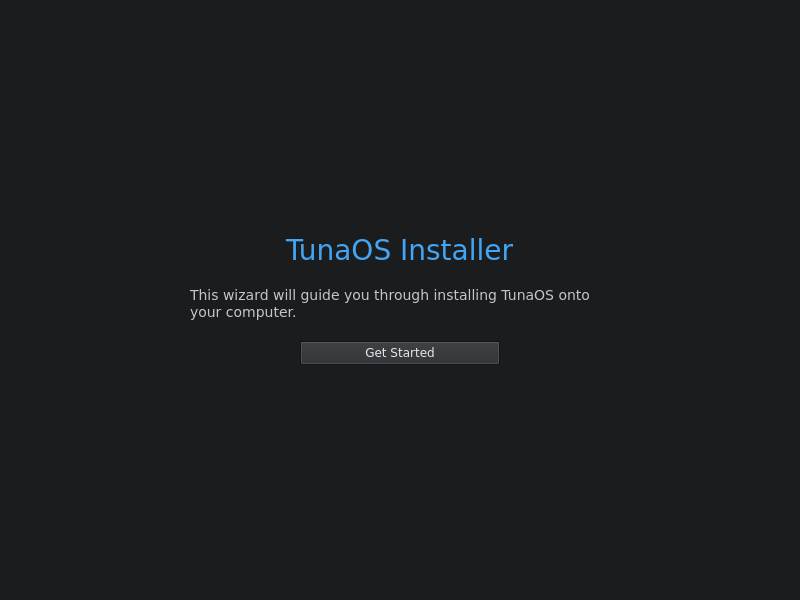
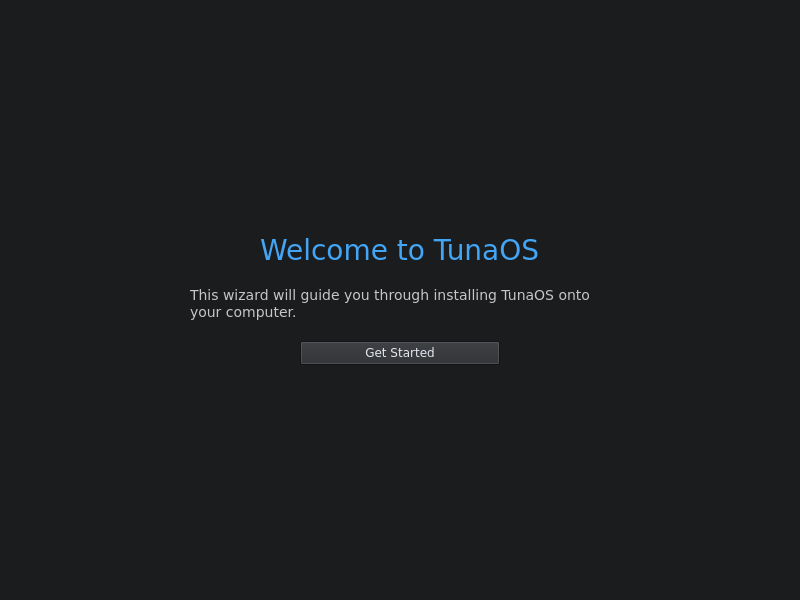
feat(ui): brand the installer with the per-variant product name
tunaOS's branding pipeline computes a per-variant PRETTY_NAME and writes
it into /etc/os-release, which is why the GNOME installer reads "Welcome
to Skipjack". This frontend hardcoded "TunaOS", so a Skipjack ISO showed
the wrong name.

The backend's `detect` now reports PRETTY_NAME, preferring
/run/host/etc/os-release (this ships as a flatpak, so /etc/os-release
inside the sandbox is the runtime's, not the host image's). Quotes are
stripped; empty/unreadable falls back to "TunaOS" in the QML.

The vendored screen-parity spec is updated to match tuna-os/tunaOS#1060,
which removes every keyword containing a product name.

Claude-Session: https://claude.ai/code/session_01KNgsizQRcVzS3KiJ5BduiC

Changed region(s): [[0.3125, 0.39, 0.6875, 0.45]]

diff --git a/ui/installer.qml b/ui/installer.qml
@@ -16,7 +16,7 @@ import "."
 
 ApplicationWindow {
     id: root
-    title: "TunaOS Installer"
+    title: root.productName + " Installer"
     width: 800
     height: 600
     visible: true
@@ -41,6 +41,15 @@ ApplicationWindow {
     palette.dark: Theme.surfaceContainerLowest
 
     property string backendBin: Quickshell.env("TUNA_BACKEND") || "tuna-installer-backend"
+
+    // Per-variant product name. tunaOS's branding pipeline
+    // (build_scripts/90-image-info.sh) computes a PRETTY_NAME per variant and
+    // writes it into /etc/os-release, which is why GNOME's welcome screen reads
+    // "Welcome to Skipjack". The backend's `detect` reads it back (preferring
+    // /run/host/etc/os-release, since this ships as a flatpak) and reports it
+    // here, so a Skipjack ISO says Skipjack rather than a hardcoded "TunaOS".
+    // "TunaOS" stays the fallback for when os-release yields nothing.
+    property string productName: "TunaOS"
 
     // Wizard state
     property int currentPage: 0 // 0=welcome, 1=disk, 2=encryption, 3=confirm, 4=progress, 5=done
@@ -72,6 +81,7 @@ ApplicationWindow {
                     root.liveImage = facts.liveImage || ""
                     root.hasTpm = facts.hasTpm === true
                     root.offlineStores = facts.offlineStores || []
+                    if (facts.productName) root.productName = facts.productName
                 } catch (e) { /* detect is best-effort */ }
             }
         }
@@ -132,7 +142,12 @@ ApplicationWindow {
                 anchors.centerIn: parent
 
                 Text {
-                    text: "TunaOS Installer"
+                    // "Welcome to <product>", matching the GNOME installer's
+                    // welcome screen. The leading "Welcome" is deliberate: the
+                    // screen-parity contract keys the welcome screen off
+                    // product-free words, and a bare "<product> Installer"
+                    // would match none of them.
+                    text: "Welcome to " + root.productName
                     font.pixelSize: 28
                     font.weight: Font.Light
                     color: Theme.primary // --sonar
@@ -141,7 +156,7 @@ ApplicationWindow {
                 Text {
                     text: root.liveImage !== ""
                         ? "Install this system — no download required."
-                        : "This wizard will guide you through installing TunaOS onto your computer."
+                        : "This wizard will guide you through installing " + root.productName + " onto your computer."
                     font.pixelSize: 14
                     color: Theme.surfaceVariantText // --fog
                     wrapMode: Text.WordWrap

diff --git a/tests/gui/parity_report.py b/tests/gui/parity_report.py
@@ -59,13 +59,16 @@ SPEC_URL = ("https://raw.githubusercontent.com/tuna-os/tunaOS/main/"
             "tests/installer-screens.yaml")
 
 SCREENS = [
+    # No keyword may contain a product name: the frontends are branded per
+    # variant from os-release (Skipjack, Bonito, ...), so "install tunaos"
+    # matched nothing on a Skipjack ISO. Upstream removed those in
+    # tuna-os/tunaOS#1060; this copy follows.
     {"id": "welcome", "title": "Welcome", "required": True,
-     "keywords": ["welcome", "get started", "let's get", "begin",
-                  "install tunaos"]},
+     "keywords": ["welcome", "get started", "let's get", "begin"]},
     # Heading/prompt text, not the "Target Disk: vda" row on the summary.
     {"id": "disk", "title": "Disk / target selection", "required": True,
      "keywords": ["select target disk", "select a disk", "choose the disk",
-                  "available disks", "where tunaos will be installed"]},
+                  "available disks", "be installed", "destination"]},
     # NOT bare "encrypt": that matches the summary page's "Encryption: None"
     # field label, which is the opposite of having reached an encryption
     # screen. Require the screen's own heading or its passphrase prompt.
@@ -76,11 +79,14 @@ SCREENS = [
      "keywords": ["confirm installation", "review your choices", "summary",
                   "ready to install", "about to install"]},
     # NOT "%" and NOT bare "install": a single character matches OCR noise,
-    # and the disk page reads "where TunaOS will be installed". Progress
-    # screens say what they are DOING, so match that instead.
+    # and bare "install" matches the disk page's "will be installed". Progress
+    # screens say what they are DOING, so match that instead. Note the ellipsis
+    # in "installing…" — bare "installing" is a substring of the encryption
+    # page's "without reinstalling", which has produced a phantom install row.
     {"id": "install", "title": "Install progress", "required": False,
      "keywords": ["installation progress", "copying files", "deploying",
-                  "please wait", "writing image"]},
+                  "please wait", "writing image", "installing…",
+                  "partitioning", "installing image"]},
     {"id": "done", "title": "Finished / reboot", "required": False,
      "keywords": ["complete", "finished", "reboot", "restart", "success"]},
 ]

diff --git a/installer/offline.go b/installer/offline.go
@@ -152,3 +152,43 @@ func writeRecipe(data []byte) (string, error) {
 	}
 	return path, nil
 }
+
+// productName returns the PRETTY_NAME from os-release — the per-variant
+// product name ("Skipjack", "Bonito", ...) that tunaOS's branding pipeline
+// (build_scripts/90-image-info.sh) writes into /etc/os-release at image build
+// time. The installer shows this instead of a hardcoded "TunaOS" so a Skipjack
+// ISO says Skipjack.
+//
+// /run/host/etc/os-release is checked FIRST and preferred: this app ships as a
+// flatpak (org.tunaos.InstallerNiri), and inside the sandbox /etc/os-release is
+// the runtime's (Freedesktop/GNOME), not the host image's. Only the host copy
+// carries the variant.
+//
+// Returns "" when neither file is readable or PRETTY_NAME is absent/empty; the
+// caller decides the fallback.
+func productName() string {
+	return productNameFrom("/run/host/etc/os-release", "/etc/os-release")
+}
+
+func productNameFrom(paths ...string) string {
+	for _, path := range paths {
+		data, err := os.ReadFile(path)
+		if err != nil {
+			continue
+		}
+		for _, line := range strings.Split(string(data), "\n") {
+			line = strings.TrimSpace(line)
+			if !strings.HasPrefix(line, "PRETTY_NAME=") {
+				continue
+			}
+			// os-release values are usually quoted; they may also be empty,
+			// in which case fall through to the next file.
+			val := strings.TrimSpace(strings.TrimPrefix(line, "PRETTY_NAME="))
+			val = strings.Trim(val, `"'`)
+			if val != "" {
+				return val
+			}
+		}
+	}
+	return ""
+}

diff --git a/installer/product_test.go b/installer/product_test.go
@@ -1,0 +1,41 @@
+package main
+
+import (
+	"os"
+	"path/filepath"
+	"testing"
+)
+
+func write(t *testing.T, dir, name, body string) string {
+	t.Helper()
+	p := filepath.Join(dir, name)
+	if err := os.WriteFile(p, []byte(body), 0o644); err != nil {
+		t.Fatal(err)
+	}
+	return p
+}
+
+func TestProductNameFrom(t *testing.T) {
+	dir := t.TempDir()
+	host := write(t, dir, "host", "ID=tunaos\nPRETTY_NAME=\"Skipjack\"\n")
+	sandbox := write(t, dir, "sandbox", "PRETTY_NAME='Freedesktop SDK'\n")
+	empty := write(t, dir, "empty", "PRETTY_NAME=\nID=x\n")
+	missing := filepath.Join(dir, "nope")
+
+	cases := []struct {
+		name  string
+		paths []string
+		want  string
+	}{
+		{"host preferred over sandbox", []string{host, sandbox}, "Skipjack"},
+		{"quotes stripped", []string{sandbox}, "Freedesktop SDK"},
+		{"missing file skipped", []string{missing, sandbox}, "Freedesktop SDK"},
+		{"empty value skipped", []string{empty, sandbox}, "Freedesktop SDK"},
+		{"nothing readable", []string{missing}, ""},
+	}
+	for _, tc := range cases {
+		if got := productNameFrom(tc.paths...); got != tc.want {
+			t.Errorf("%s: got %q want %q", tc.name, got, tc.want)
+		}
+	}
+}

diff --git a/installer/main.go b/installer/main.go
@@ -120,6 +120,10 @@ func detectEnvironment() {
 		// than offering a choice that would fail later at install time. Same
 		// probe the XFCE and KDE frontends use.
 		"hasTpm": hasTPM(),
+		// Per-variant product name from os-release (PRETTY_NAME), so the UI
+		// reads "Skipjack Installer" on a Skipjack ISO. Empty when os-release
+		// is unreadable — the QML falls back to "TunaOS".
+		"productName": productName(),
 	}
 	enc := json.NewEncoder(os.Stdout)
 	enc.SetIndent("", "  ")
